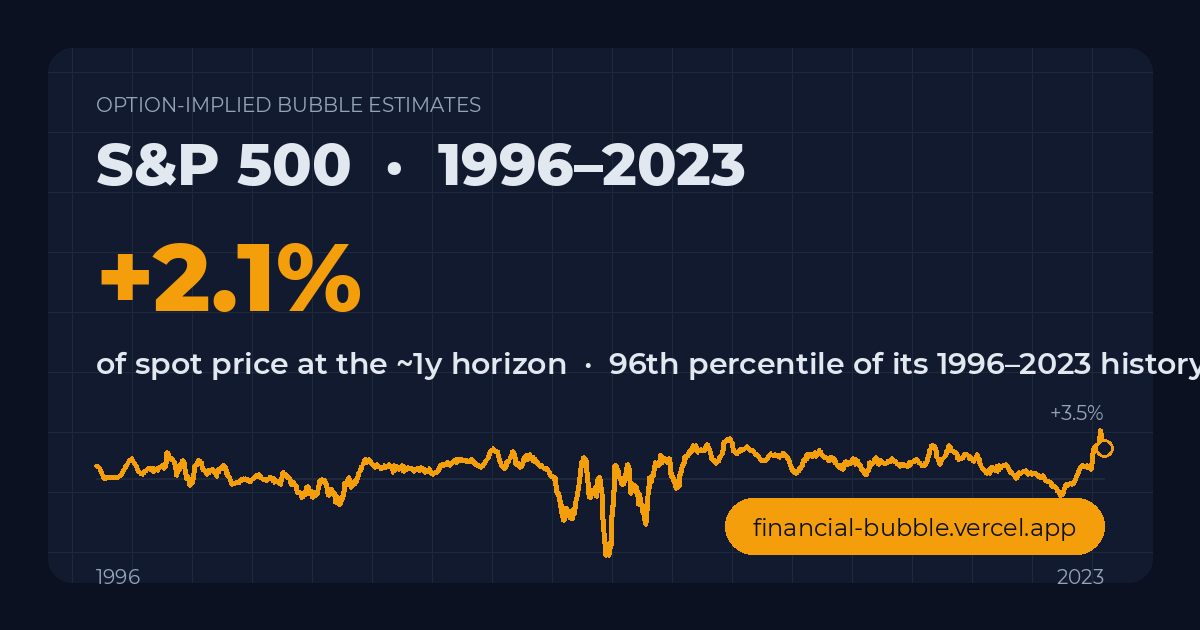
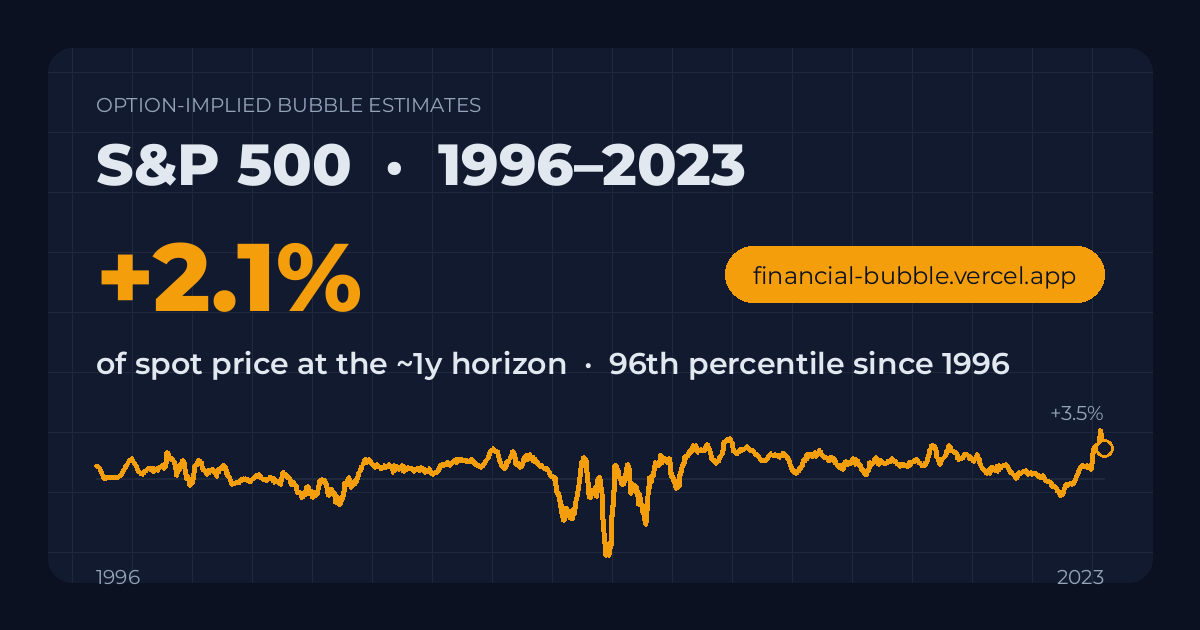
og card: keep the subtitle on the card, move the url pill off the chart, font dir works off the original machine

diff --git a/scripts/render-og.py b/scripts/render-og.py
@@ -15,7 +15,7 @@ Reproducible: `python3 scripts/render-og.py` regenerates public/og.png.
 from __future__ import annotations
 
 import json
-import math
+import os
 import urllib.request
 from pathlib import Path
 
@@ -45,7 +45,8 @@ ACCENT = "#f59e0b"  # tau3 series colour from the dark Plotly palette
 ACCENT_DIM = "#b8860b"
 GRID = "#1e293b"
 
-FONT_DIR = Path("/home/paperclip/.fonts")
+# Montserrat static TTFs (Montserrat-Regular.ttf etc.). Override with OG_FONT_DIR.
+FONT_DIR = Path(os.environ.get("OG_FONT_DIR", "~/.fonts")).expanduser()
 
 
 def font(size: int, weight: str = "Regular") -> ImageFont.FreeTypeFont:
@@ -106,8 +107,7 @@ def render(series: list[float]) -> None:
     d.text((96, 218), f"{sign}{last:.1f}%", font=f_num, fill=ACCENT)
 
     sub = (
-        f"of spot price at the ~1y horizon  ·  {pct:.0f}th percentile "
-        f"of its 1996–2023 history"
+        f"of spot price at the ~1y horizon  ·  {pct:.0f}th percentile since 1996"
     )
     d.text((96, 344), sub, font=f_med, fill=INK)
 
@@ -148,11 +148,11 @@ def render(series: list[float]) -> None:
     hx = chart_x1 - d.textlength(fmt(hi), font=f_micro)
     d.text((hx, chart_y0 - 30), fmt(hi), font=f_micro, fill=MUTED)
 
-    # Footer: site URL pill.
+    # Site URL pill, beside the headline number and clear of the sparkline.
     url = "financial-bubble.vercel.app"
     pill_w = int(d.textlength(url, font=f_small)) + 56
     pill_h = 56
-    pill_x, pill_y = W - 96 - pill_w, H - 48 - 28 - pill_h
+    pill_x, pill_y = W - 96 - pill_w, 246
     d.rounded_rectangle(
         [pill_x, pill_y, pill_x + pill_w, pill_y + pill_h],
         radius=28,
